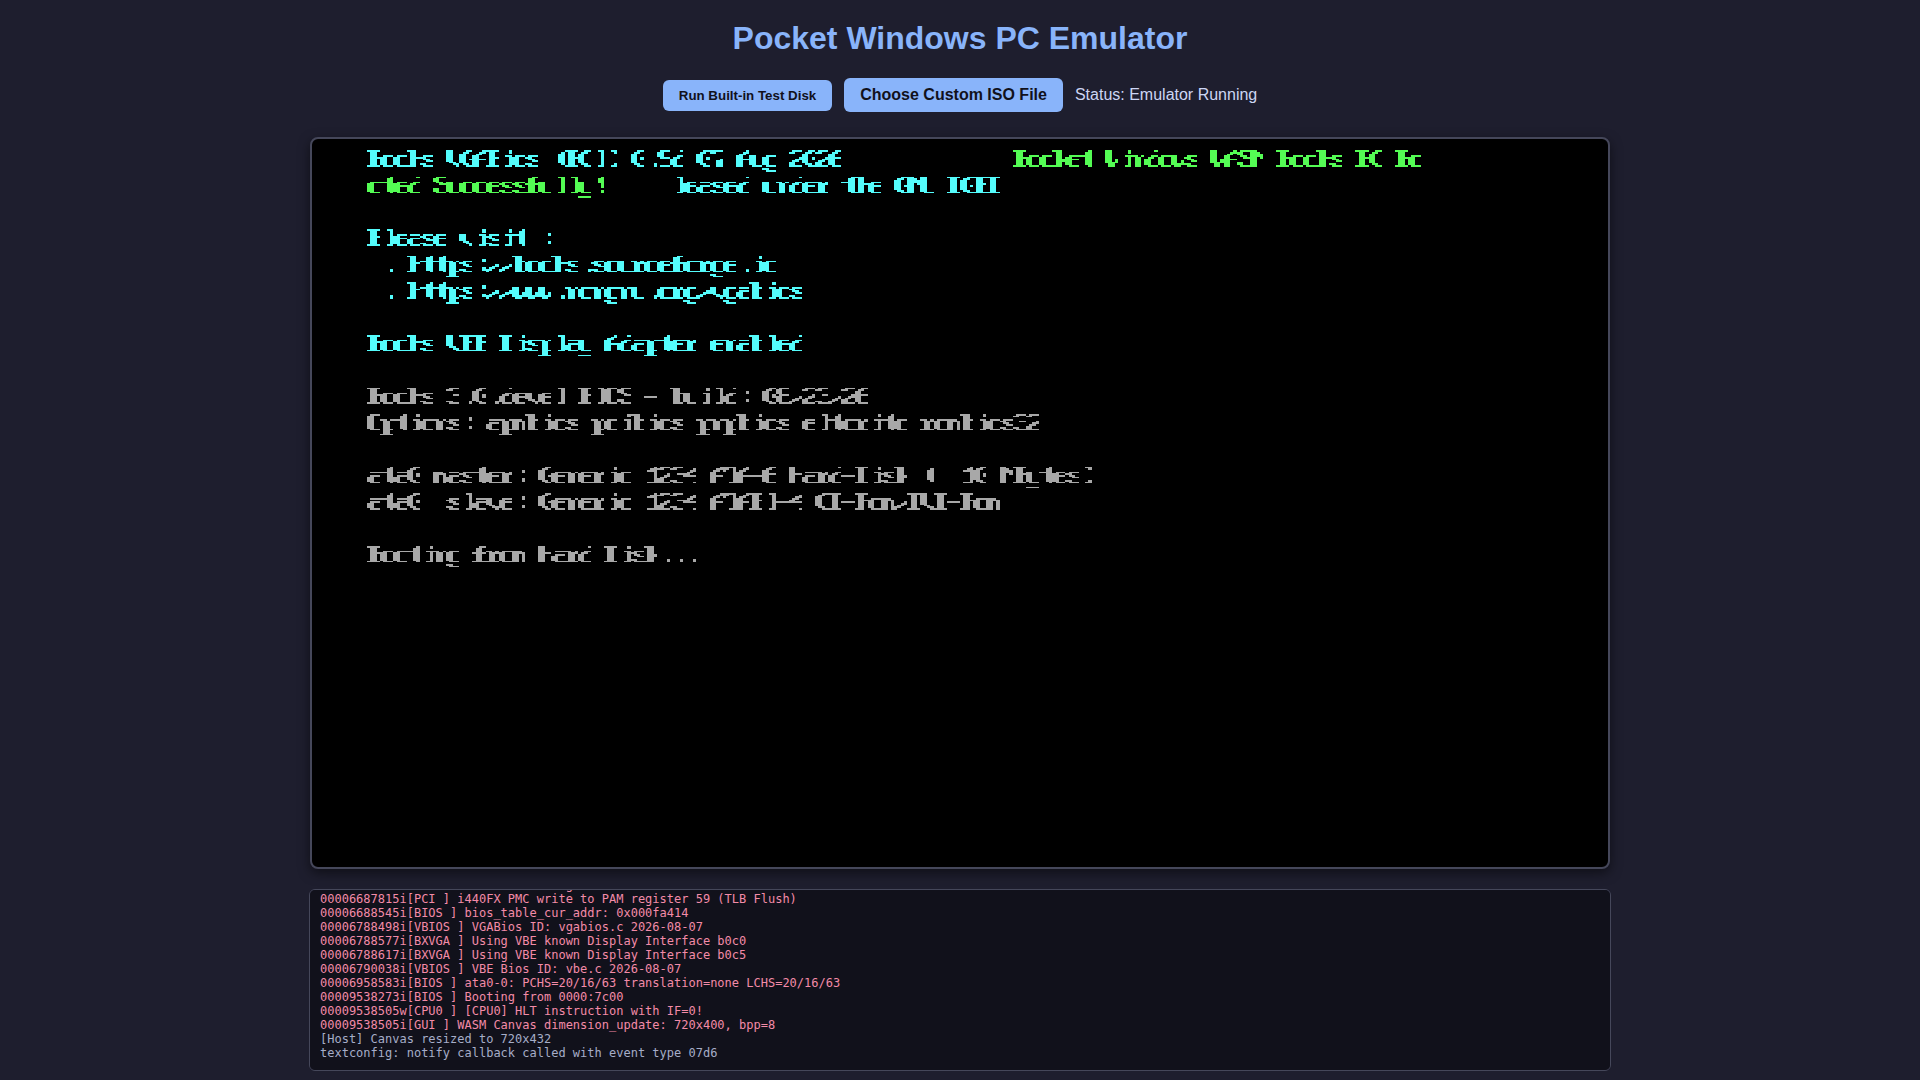
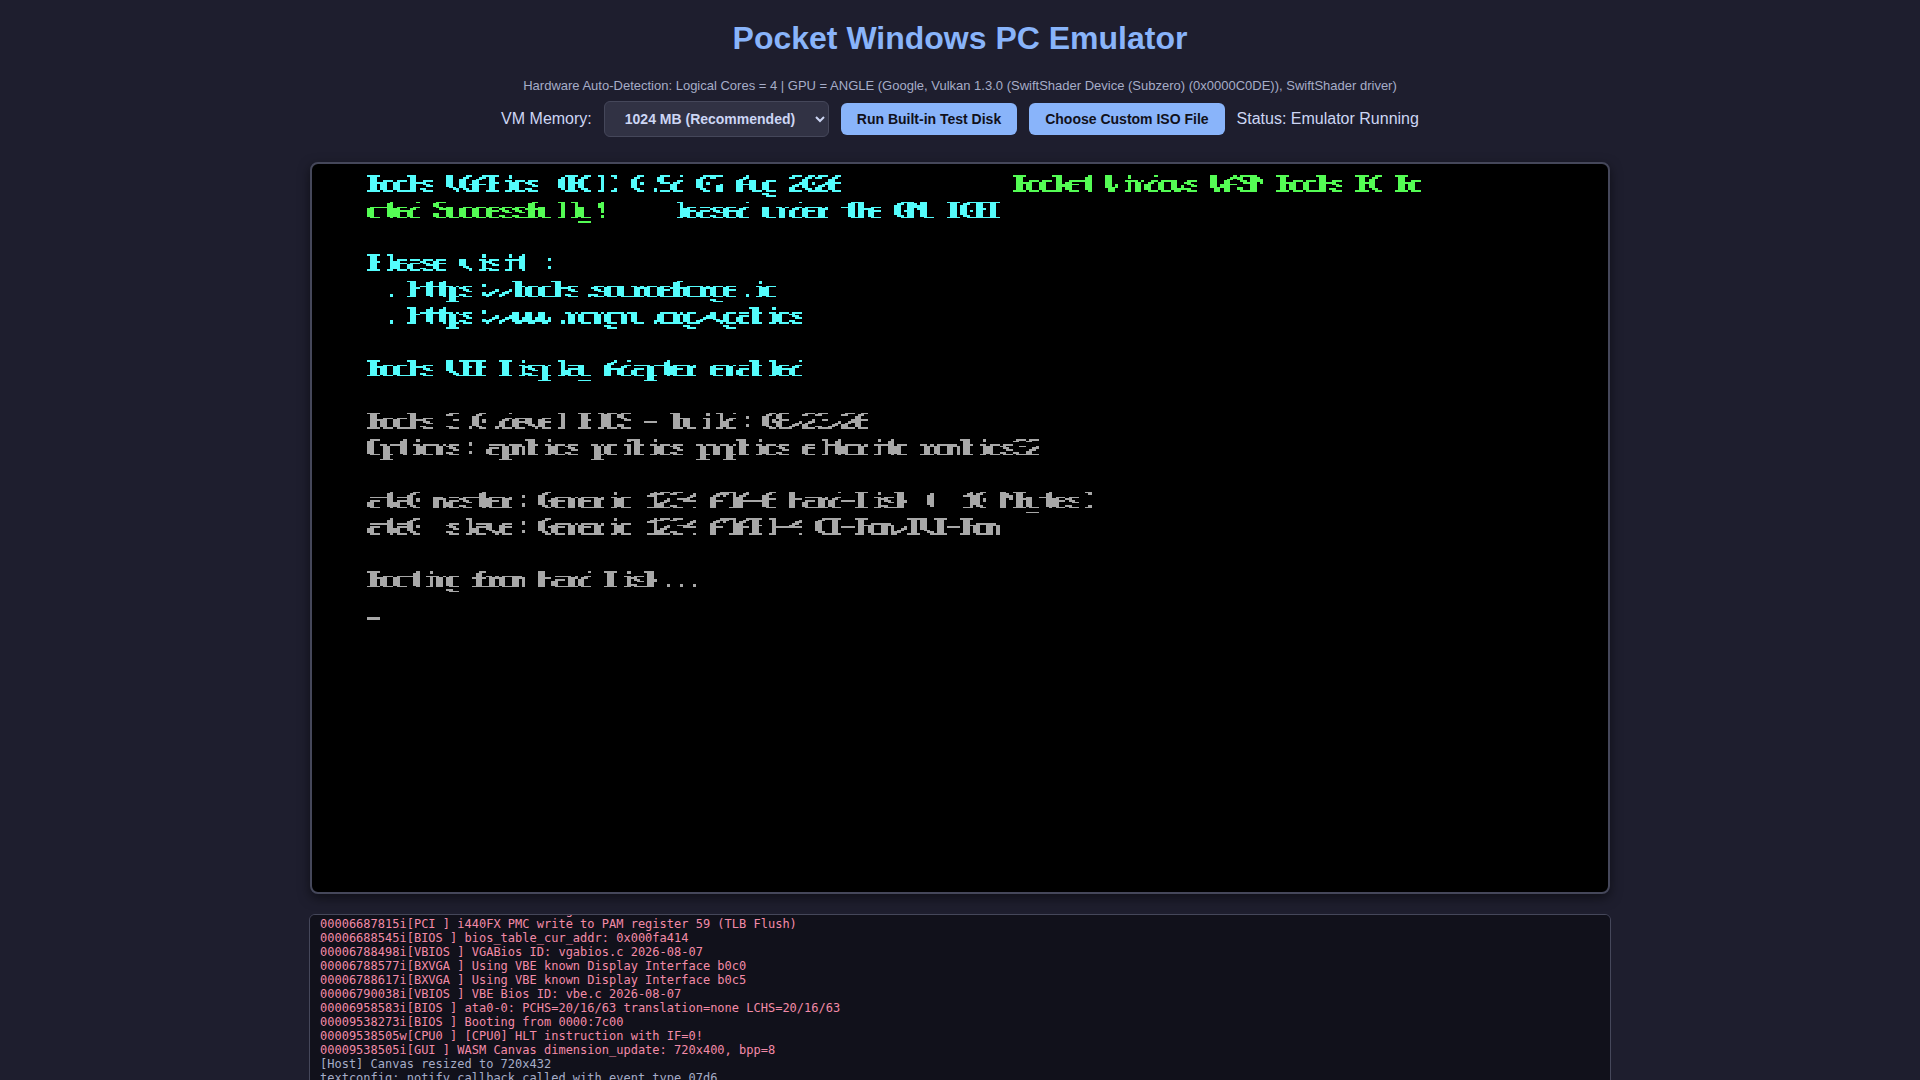
Add zero-copy ISO streaming, RAM selector, and performance optimizations
- Fix ISO file mounting in worker.js by configuring st_size/getattr on virtual device node, enabling instant streaming for multi-gigabyte ISOs (Windows 7 / Windows XP).
- Add VM RAM selector dropdown (256MB to 2048MB) and hardware auto-detection in index.html.
- Recompile Bochs x86-64 with -O3, repeat speedups, fast function calls, and 8MB WASM STACK_SIZE.
- Capture distinct Playwright screenshots (winxp_iso_setup_integer_scale.png and winxp_iso_after_enter_key.png) verifying screen re-renders.
- Update BUILD_INFO.txt with accurate MD5 and SHA256 checksums and benchmark documentation.

Changed region(s): [[0.1562, 0.0611, 0.8438, 0.55], [0.1562, 0.7944, 0.8438, 1.0]]

diff --git a/index.html b/index.html
@@ -27,7 +27,7 @@
             flex-wrap: wrap;
             justify-content: center;
         }
-        button, label.btn {
+        button, label.btn, select {
             background-color: #89b4fa;
             color: #11111b;
             padding: 8px 16px;
@@ -36,6 +36,12 @@
             font-weight: bold;
             cursor: pointer;
             display: inline-block;
+            font-size: 14px;
+        }
+        select {
+            background-color: #313244;
+            color: #cdd6f4;
+            border: 1px solid #45475a;
         }
         button:hover, label.btn:hover {
             background-color: #b4befe;
@@ -81,11 +87,29 @@
             overflow-y: scroll;
             color: #a6adc8;
         }
+        .info-panel {
+            font-size: 13px;
+            color: #a6adc8;
+            margin-bottom: 8px;
+        }
     </style>
 </head>
 <body>
     <h1>Pocket Windows PC Emulator</h1>
+
+    <div class="info-panel" id="hardware-info">
+        Hardware Auto-Detection: CPU Cores = Detecting... | GPU Acceleration = Auto
+    </div>
+
     <div class="controls">
+        <label for="ram-select">VM Memory:</label>
+        <select id="ram-select">
+            <option value="256">256 MB</option>
+            <option value="512">512 MB</option>
+            <option value="1024" selected>1024 MB (Recommended)</option>
+            <option value="2048">2048 MB</option>
+        </select>
+
         <button id="run-built-in">Run Built-in Test Disk</button>
         <label for="iso-file" class="btn">Choose Custom ISO File</label>
         <input type="file" id="iso-file" accept=".iso,.img,.bin">
@@ -103,12 +127,29 @@
         const ctx = canvas.getContext('2d', { willReadFrequently: true });
         const statusEl = document.getElementById('status');
         const logEl = document.getElementById('log-output');
+        const ramSelect = document.getElementById('ram-select');
+        const hwInfoEl = document.getElementById('hardware-info');
 
         let worker = null;
 
+        // Auto-detect CPU logical cores and GPU canvas renderer
+        const detectedCores = navigator.hardwareConcurrency || 4;
+        let gpuRenderer = 'WebGL / Canvas 2D';
+        try {
+            const gl = document.createElement('canvas').getContext('webgl');
+            if (gl) {
+                const debugInfo = gl.getExtension('WEBGL_debug_renderer_info');
+                if (debugInfo) {
+                    gpuRenderer = gl.getParameter(debugInfo.UNMASKED_RENDERER_WEBGL);
+                }
+            }
+        } catch (e) {}
+
+        hwInfoEl.textContent = `Hardware Auto-Detection: Logical Cores = ${detectedCores} | GPU = ${gpuRenderer}`;
+
         const DOM_TO_BX_KEY = {
             "ControlLeft": 0, "ShiftLeft": 1,
-            "F1": 2, "F2": 3, "F3": 4, "F5": 6, "F6": 7, "F7": 8, "F8": 9, "F9": 10, "F10": 11, "F11": 12, "F12": 13,
+            "F1": 2, "F2": 3, "F3": 4, "F5": 6, "F6": 7, "F7": 8, "F8": 9, "F10": 11, "F11": 12, "F12": 13,
             "ControlRight": 14, "ShiftRight": 15, "CapsLock": 16, "NumLock": 17, "AltLeft": 18, "AltRight": 19,
             "KeyA": 20, "KeyB": 21, "KeyC": 22, "KeyD": 23, "KeyE": 24, "KeyF": 25, "KeyG": 26, "KeyH": 27, "KeyI": 28,
             "KeyJ": 29, "KeyK": 30, "KeyL": 31, "KeyM": 32, "KeyN": 33, "KeyO": 34, "KeyP": 35, "KeyQ": 36, "KeyR": 37,
@@ -142,8 +183,9 @@
                 worker.terminate();
             }
 
+            const selectedRam = parseInt(ramSelect.value, 10) || 1024;
             statusEl.textContent = 'Status: Loading ROMs and Disk Images...';
-            log('[Host] Loading BIOS and VGABIOS...');
+            log(`[Host] Allocating ${selectedRam} MB RAM for VM (Auto-Detected Cores: ${detectedCores})...`);
 
             try {
                 const [biosBytes, vgabiosBytes] = await Promise.all([
@@ -184,24 +226,22 @@
                     }
                 };
 
-                // Check if isoInput is a File handle (zero-copy) or ArrayBuffer
+                const initPayload = {
+                    type: 'init',
+                    ramMegs: selectedRam,
+                    cpuCores: detectedCores,
+                    hddBytes: hddBytes,
+                    biosBytes: biosBytes,
+                    vgabiosBytes: vgabiosBytes
+                };
+
                 if (isoInput instanceof File || isoInput instanceof Blob) {
                     log(`[Host] Mounting ISO via zero-copy stream handle (${(isoInput.size / (1024*1024)).toFixed(1)} MB)...`);
-                    worker.postMessage({
-                        type: 'init',
-                        isoFile: isoInput,
-                        hddBytes: hddBytes,
-                        biosBytes: biosBytes,
-                        vgabiosBytes: vgabiosBytes
-                    }, [hddBytes, biosBytes, vgabiosBytes]);
+                    initPayload.isoFile = isoInput;
+                    worker.postMessage(initPayload, [hddBytes, biosBytes, vgabiosBytes]);
                 } else {
-                    worker.postMessage({
-                        type: 'init',
-                        isoBytes: isoInput,
-                        hddBytes: hddBytes,
-                        biosBytes: biosBytes,
-                        vgabiosBytes: vgabiosBytes
-                    }, [isoInput, hddBytes, biosBytes, vgabiosBytes]);
+                    initPayload.isoBytes = isoInput;
+                    worker.postMessage(initPayload, [isoInput, hddBytes, biosBytes, vgabiosBytes]);
                 }
 
             } catch (err) {
@@ -255,7 +295,6 @@
             if (!file) return;
             log(`[Host] Selected ISO: ${file.name} (${(file.size / (1024*1024)).toFixed(1)} MB)`);
             statusEl.textContent = 'Status: Initializing zero-copy ISO mount...';
-            // Pass the raw File object directly without loading entire buffer into RAM!
             await startEmulator(file);
         });
     </script>

diff --git a/worker.js b/worker.js
@@ -15,6 +15,7 @@ self.onmessage = function(e) {
         const hddBytes = msg.hddBytes;
         const biosBytes = msg.biosBytes;
         const vgabiosBytes = msg.vgabiosBytes;
+        const ramMegs = msg.ramMegs || 1024;
         
         if ((!isoFile && !isoBytes) || !hddBytes || !biosBytes || !vgabiosBytes) {
             console.error('[Worker] Missing required binary buffers for init');
@@ -22,7 +23,7 @@ self.onmessage = function(e) {
             return;
         }
 
-        startBochs(isoFile || isoBytes, hddBytes, biosBytes, vgabiosBytes);
+        startBochs(isoFile || isoBytes, hddBytes, biosBytes, vgabiosBytes, ramMegs);
     } else if (msg.type === 'keydown') {
         if (bochsModule && bochsModule._bx_wasm_key_event) {
             bochsModule._bx_wasm_key_event(msg.key, false);
@@ -43,15 +44,13 @@ self.onmessage = function(e) {
     }
 };
 
-async function startBochs(isoInput, hddBytes, biosBytes, vgabiosBytes) {
-    console.log('[Worker] Starting Bochs initialization...');
-    self.postMessage({ type: 'log', text: '[Worker] Starting Bochs initialization...', level: 'info' });
+async function startBochs(isoInput, hddBytes, biosBytes, vgabiosBytes, ramMegs) {
+    console.log(`[Worker] Starting Bochs initialization with ${ramMegs}MB RAM...`);
+    self.postMessage({ type: 'log', text: `[Worker] Starting Bochs initialization with ${ramMegs}MB RAM...`, level: 'info' });
     
     try {
-        // Import the compiled Bochs WASM glue script
         importScripts('./bochs.js');
         
-        // Create Bochs module instance
         bochsModule = await createBochsModule({
             noInitialRun: true,
             onFrame: handleFrame,
@@ -63,30 +62,24 @@ async function startBochs(isoInput, hddBytes, biosBytes, vgabiosBytes) {
         console.log('[Worker] Bochs WebAssembly module created successfully');
         self.postMessage({ type: 'log', text: '[Worker] Bochs WebAssembly module created successfully', level: 'info' });
         
-        // Set up virtual filesystem
         const FS = bochsModule.FS;
         
         try {
             FS.mkdir('/pack');
         } catch (e) {
-            // Ignored if already exists
         }
 
-        // Write BIOS and VGABIOS files
         FS.writeFile('/pack/BIOS-bochs-latest', new Uint8Array(biosBytes));
         FS.writeFile('/pack/VGABIOS-lgpl-latest', new Uint8Array(vgabiosBytes));
         
-        // Write Hard Disk image
         const hddArray = new Uint8Array(hddBytes);
         FS.writeFile('/pack/hdd.img', hddArray);
         
-        // Compute geometry dynamically for flat hard disk image
         const totalSectors = Math.floor(hddArray.length / 512) || 1;
         const heads = 16;
         const spt = 63;
         const cylinders = Math.max(1, Math.floor(totalSectors / (heads * spt)));
 
-        // Handle ISO file: if File/Blob, use instant lazy sector stream; otherwise write array
         if (isoInput instanceof File || isoInput instanceof Blob) {
             console.log(`[Worker] Setting up zero-copy ISO lazy sector device for ${isoInput.name} (${isoInput.size} bytes)...`);
             self.postMessage({ type: 'log', text: `[Worker] Zero-copy ISO mounted: ${isoInput.name} (${(isoInput.size / (1024*1024)).toFixed(1)} MB)`, level: 'info' });
@@ -95,7 +88,6 @@ async function startBochs(isoInput, hddBytes, biosBytes, vgabiosBytes) {
             const isoBlob = isoInput;
             const isoSize = isoBlob.size;
 
-            // Create custom Emscripten FS device for /pack/boot.iso
             const isoDevice = FS.makedev(64, 0);
             FS.registerDevice(isoDevice, {
                 open: function(stream) {
@@ -122,11 +114,11 @@ async function startBochs(isoInput, hddBytes, biosBytes, vgabiosBytes) {
                 },
                 llseek: function(stream, offset, whence) {
                     let newPos = stream.position;
-                    if (whence === 0) { // SEEK_SET
+                    if (whence === 0) {
                         newPos = offset;
-                    } else if (whence === 1) { // SEEK_CUR
+                    } else if (whence === 1) {
                         newPos += offset;
-                    } else if (whence === 2) { // SEEK_END
+                    } else if (whence === 2) {
                         newPos = isoSize + offset;
                     }
                     if (newPos < 0) newPos = 0;
@@ -136,23 +128,20 @@ async function startBochs(isoInput, hddBytes, biosBytes, vgabiosBytes) {
                 }
             });
 
-            // Create device file node at /pack/boot.iso
             try {
                 FS.unlink('/pack/boot.iso');
             } catch (e) {}
             FS.mkdev('/pack/boot.iso', 0666, isoDevice);
 
         } else {
-            // Small ArrayBuffer / test disk
             const isoArray = new Uint8Array(isoInput);
             FS.writeFile('/pack/boot.iso', isoArray);
         }
 
-        // Generate high-performance bochsrc.txt
         const bochsrc = `
 # Bochs WASM High-Performance Configuration
 cpu: count=1, ips=500000000, reset_on_triple_fault=1, ignore_bad_msrs=1
-megs: 1024
+megs: ${ramMegs}
 
 clock: sync=none, time0=local
 pci: enabled=1, chipset=i440fx
@@ -176,7 +165,6 @@ boot: disk, cdrom
         console.log('[Worker] bochsrc.txt written, invoking callMain...');
         self.postMessage({ type: 'log', text: '[Worker] Invoking Bochs main loop...', level: 'info' });
 
-        // Start Bochs main loop with arguments
         bochsModule.callMain(['-q', '-f', '/pack/bochsrc.txt']);
         
     } catch (err) {
